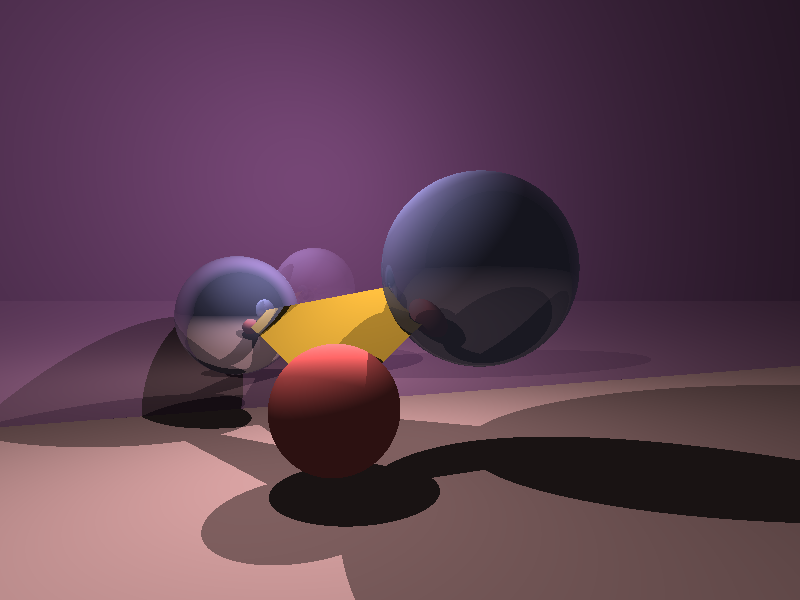
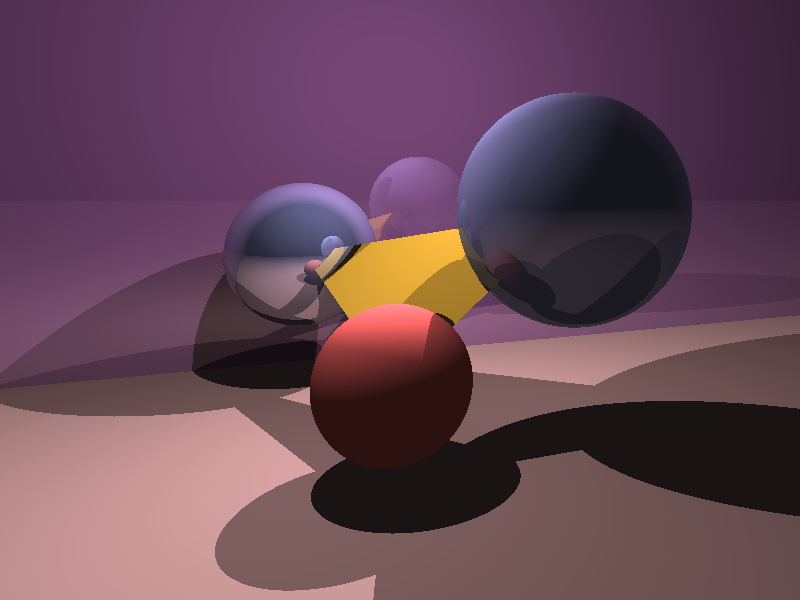
Added .OBJ loader, code cleanup, scene arrays changed to lists.

diff --git a/Raytracer/Program.cs b/Raytracer/Program.cs
@@ -13,14 +13,18 @@ namespace Raytracer
 {
     class Program
     {
-        private static Primitive[] primitives;
-        private static Light[] lights;
+        private static List<Primitive> primitives = new List<Primitive>();
+        private static List<Light> lights = new List<Light>();
 
         private static long stats_primary = 0;
         private static long stats_total = 0;
         private static long stats_maxdepth = 0;
         private static long stats_miss = 0;
 
+        static float dx, dy;
+        static float ss_step, ss_lim;
+
+        
         // Render setup
         const int w = 800;
         const int h = 600;
@@ -32,96 +36,40 @@ namespace Raytracer
 
         const int ss = 1; // Supersampling level
 
-        static float dx, dy;
-        static float ss_step, ss_lim;
-
         private static float ambientLight = 0.125f;
 
         static void Main(string[] args)
         {
-            /*
-            Sphere s = new Sphere(new Vector(0, 0, 10), 5);
-            Ray r = new Ray(new Vector(0, 0, 0), new Vector(1, 0, 2));
-
-            Console.WriteLine(s.Intersects(r));
-            Console.ReadKey();
-            */
-
             // Scene setup
-            primitives = new Primitive[]
-                         {
-                             /*
-                             new Plane(new Vector(0, 0, 1), 3, new Material(new Vector(0.8f, 0.8f, 0.8f), 0.8f, 0.0f)),
-                             new Plane(new Vector(0, 1, 0), -2, new Material(new Vector(0.8f, 0.8f, 0.8f), 0.8f, 0.0f)),
-                             new Plane(new Vector(0, -1, 0), -2, new Material(new Vector(0.8f, 0.8f, 0.8f), 0.8f, 0.0f)),
-                             new Plane(new Vector(1, 0, 0), -3f, new Material(new Vector(0, 0, 0.8f), 0.8f, 0.0f)),
-                             new Plane(new Vector(-1, 0, 0), -3f, new Material(new Vector(0.8f, 0, 0), 0.8f, 0.0f)),
-                             */
-
-                             //new Sphere(new Vector(0, 0, 200), 100, new Material(new Vector(0, 0.0f, 0), 0.0f, 1.0f)),
-                             //new Sphere(new Vector(100, 100, -300), 100, new Material(new Vector(1.0f, 1.0f, 0), 1.0f, 0.0f)),
-                             
-                             //new Sphere(new Vector(-50, 0, 100), 50, new Material(new Vector(1, 0, 0), 0.4f, 0.0f)),
-                             //new Sphere(new Vector(-200, 50, 150), 50, new Material(new Vector(1, 1, 0), 0.5f, 0.0f)),
-                             //new Sphere(new Vector(-100, 25, 180), 60, new Material(new Vector(0, 0, 0), 0.0f, 1.0f)),
-                             //new Sphere(new Vector(100, 150, 75), 20, new Material(new Vector(0, 0, 1), 0.8f, 0.0f)),
-                             
-                             // reflection
-                             //new Sphere(new Vector(0, -150, 200), 100, new Material(new Vector(0, 1.0f, 0), 1.0f, 0.0f)),
-                             //new Sphere(new Vector(200, -75, 400), 200, new Material(new Vector(1.0f, 0.0f, 0), 0.5f, 1.0f)),
-                             
-                             //bikker v3 scene
-                             
-                             new Plane(new Vector(0, 1, 0), 4.4f,
-                                       new Material(new Vector(0.4f, 0.3f, 0.3f), 1.0f, 0.0f)), //ground
-                             new Plane(new Vector(0.4f, 0, -1), 12,
-                                       new Material(new Vector(0.5f, 0.3f, 0.5f), 0.6f, 0.3f)), //back
-                             new Sphere(new Vector(2, 0.8f, 3), 2.5f,
-                                        new Material(new Vector(0.7f, 0.7f, 1.0f), 0.6f, 0.2f)), //big sphere
-                             new Sphere(new Vector(-5.5f, -0.5f, 7), 2,
-                                        new Material(new Vector(0.7f, 0.7f, 1.0f), 0.7f, 0.6f)), //small sphere
-                             new Sphere(new Vector(-1.5f, -2.5f, 1.5f), 1.5f,
-                                        new Material(new Vector(1.0f, 0.4f, 0.4f), 0.7f, 0.0f)), //extra sphere
-                             
-                             new Triangle(new Vector(2, 0.8f, 3), new Vector(-1.5f, -2.5f, 1.5f), new Vector(-5.5f, -0.5f, 7),
-                                          new Material(new Vector(0.8f, 0.6f, 0.2f), 0.7f, 0.0f)),
-                             
-                             /*new Sphere(new Vector(0, 2, -2), 0.5f, new Material(new Vector(1, 0, 0), 1, 0)),
-                             new Sphere(new Vector(3, -2, -2), 0.5f, new Material(new Vector(0, 1, 0), 1, 0)),
-                             new Sphere(new Vector(-3, -2, -2), 0.5f, new Material(new Vector(0, 0, 1), 1, 0)),
-                             new Triangle(new Vector(-3, -2, -2),new Vector(3, -2, -2),new Vector(0, 2, -2),new Material(new Vector(1, 1, 0), 1, 0))
-                             */
-                             //new Sphere(new Vector(-5.5f, -0.5f, 7), 2f, new Material(new Vector(0.7f, 0.7f, 1.0f), 0.8f, 0.0f)),
-                             //new Sphere(new Vector(2, 0.8f, 3), 2.5f, new Material(new Vector(0.7f, 0.7f, 1.0f), 0.8f, 0.0f)),
-                             //new Sphere(new Vector(0, 5, 5), 1.5f, new Material(new Vector(1, 1, 1), 1.0f, 0.0f)),
-
-                             //bikker v2 scene
-                             //new Plane(new Vector(0, 1, 0), 4.4f, new Material(new Vector(0.4f, 0.3f, 0.3f), 1.0f, 0.0f)),
-                             //new Sphere(new Vector(1, -0.8f, 3), 2.5f, new Material(new Vector(0.7f, 0.7f, 0.7f), 1.0f, 0.0f)),
-                             //new Sphere(new Vector(-5.5f, -0.5f, 7), 2, new Material(new Vector(0.7f, 0.7f, 1.0f), 1.0f, 0.0f)),
-                             
-                         };
             
-            lights = new[]
-                     {
-                         //new Light(new Vector(0, 0, 0)), 
-                         /*new Light(new Vector(0, -500, 200)),
-                         new Light(new Vector(100, -100, 300)),
-                         new Light(new Vector(200, 100, 400)),*/
-                         //new Light(new Vector(0, 0, 0)),
-                         //new Light(new Vector(300, -100, 100)),
-                         //new Light(new Vector(500, 300, -20)),
-                         //new Light(new Vector(-200, -200, 50)),
+            primitives.Add(new Plane(
+                new Vector(0, 1, 0), 4.4f, 
+                new Material(new Vector(0.4f, 0.3f, 0.3f), 1.0f, 0.0f)));
+            primitives.Add(new Plane(
+                new Vector(0.4f, 0, -1), 12,
+                new Material(new Vector(0.5f, 0.3f, 0.5f), 0.6f, 0.3f)));
+            primitives.Add(new Sphere(
+                new Vector(2, 0.8f, 3), 2.5f,
+                new Material(new Vector(0.7f, 0.7f, 1.0f), 0.6f, 0.2f)));
+            primitives.Add(new Sphere(
+                new Vector(-5.5f, -0.5f, 7), 2,
+                new Material(new Vector(0.7f, 0.7f, 1.0f), 0.7f, 0.6f)));
+            primitives.Add(new Sphere(
+                new Vector(-1.5f, -2.5f, 1.5f), 1.5f,
+                new Material(new Vector(1.0f, 0.4f, 0.4f), 0.7f, 0.0f)));
+            primitives.Add(new Triangle(
+                new Vector(2, 0.8f, 3), new Vector(-1.5f, -2.5f, 1.5f), new Vector(-5.5f, -0.5f, 7),
+                new Material(new Vector(0.8f, 0.6f, 0.2f), 0.7f, 0.0f)));
+            
 
-                         //bikker v3 scene
-                         new Light(new Vector(0, 5, 5)), 
-                         new Light(new Vector(-3, 5, 1)), 
-
-                         //bikker v2 scene
-                         //new Light(new Vector(0, 5, 5)), 
-                         //new Light(new Vector(2, 5, 1)), 
-
-                     };
+            //primitives = TriangleMeshLoader.LoadOBJ("../../../gourd.obj", new Material(new Vector(0.8f, 0.6f, 0.2f), 0.7f, 0.0f)).Cast<Primitive>().ToList();
+            
+            lights.Add(new Light(new Vector(0, 5, 5)));
+            lights.Add(new Light(new Vector(-3, 5, 1)));
+            
+            //lights.Add(new Light(new Vector(3, -1, 2)));
+            
+            ////////////////////////////////////////////////////////////////
 
             dx = (x2 - x1)/w;
             dy = (y2 - y1)/h;
@@ -192,19 +140,14 @@ namespace Raytracer
                 for (j = -ss_lim, jj = 0; jj < ss; j += ss_step, jj++)
                 {
 
-                    // Orthogonal projection
+                    // Orthogonal projection (no supersampling!)
                     //Vector pt = new Vector(-w/2 + x, -h/2 + y, -50);
                     //Ray r = new Ray(pt, new Vector(0,0, 1));
 
                     // Perspective
-                    //Vector pt = new Vector(-w/2 + x + i, -h/2 + y + j, 0);
-                    //Vector pt = new Vector(-w / 2 + x, -h / 2 + y, 0);
+                    Vector pt = new Vector(x1+x*dx+dx*i, y1+y*dy+dy*j, -4);
                             
-                    /*
-                            Vector pt = new Vector(x1+x*dx, y1+y*dy, -5);/*/
-                    Vector pt = new Vector(x1+x*dx+dx*i, y1+y*dy+dy*j, -5); //supersample /**/
-                            
-                    Vector o = new Vector(0, 0, -10);
+                    Vector o = new Vector(1.5f, 1, -10);
                     Ray r = new Ray(o, (pt - o).Normalize());
 
                     color += Trace(r, 0);
@@ -291,8 +234,6 @@ namespace Raytracer
                 Vector rr = (r.Direction - n*2.0f*n.Dot(r.Direction)).Normalize();
                 
                 color = color*(1.0f - prim.Material.Reflection) + Trace(new Ray(ip + rr*10e-4f, rr), depth + 1)*prim.Material.Reflection; //TODO: fix epsilon
-                //color = Trace(new Ray(ip + rr*float.Epsilon, rr), depth + 1);
-                //color = Trace(new Ray(ip + rr*0.01f,rr), depth + 1);
             }
 
             color.X = color.X > 1 ? 1 : color.X;

diff --git a/Raytracer/Primitives/TriangleMeshLoader.cs b/Raytracer/Primitives/TriangleMeshLoader.cs
@@ -1,0 +1,54 @@
+using System;
+using System.Collections.Generic;
+using System.Globalization;
+using System.IO;
+using System.Linq;
+using System.Text;
+
+using Raytracer.Math;
+
+namespace Raytracer.Primitives
+{
+    class TriangleMeshLoader
+    {
+        private TriangleMeshLoader()
+        {
+            
+        }
+
+        public static List<Triangle> LoadOBJ (string path, Material material)
+        {
+            List<Triangle> triangles = new List<Triangle>();
+            List<Vector> vertices = new List<Vector>();    
+
+            foreach (string line in File.ReadAllLines(path))
+            {
+                if (line.StartsWith("#")) // Skip comments
+                    continue;
+
+                string[] parts = line.Split(new[] {' '});
+                switch (parts[0])
+                {
+                    case "v":
+                        vertices.Add(new Vector(float.Parse(parts[1], CultureInfo.InvariantCulture),
+                                                float.Parse(parts[2], CultureInfo.InvariantCulture),
+                                                float.Parse(parts[3], CultureInfo.InvariantCulture)));
+                        break;
+                    
+                    case "f":
+                        if (parts.Length != 4)
+                            throw new NotImplementedException("Only triangle faces are supported for now");
+                        triangles.Add(new Triangle(vertices[int.Parse(parts[1])-1],
+                                                   vertices[int.Parse(parts[2])-1],
+                                                   vertices[int.Parse(parts[3])-1],
+                                                   material));
+                        break;
+                }
+                
+            }
+
+            return triangles;
+        }
+
+    }
+}
